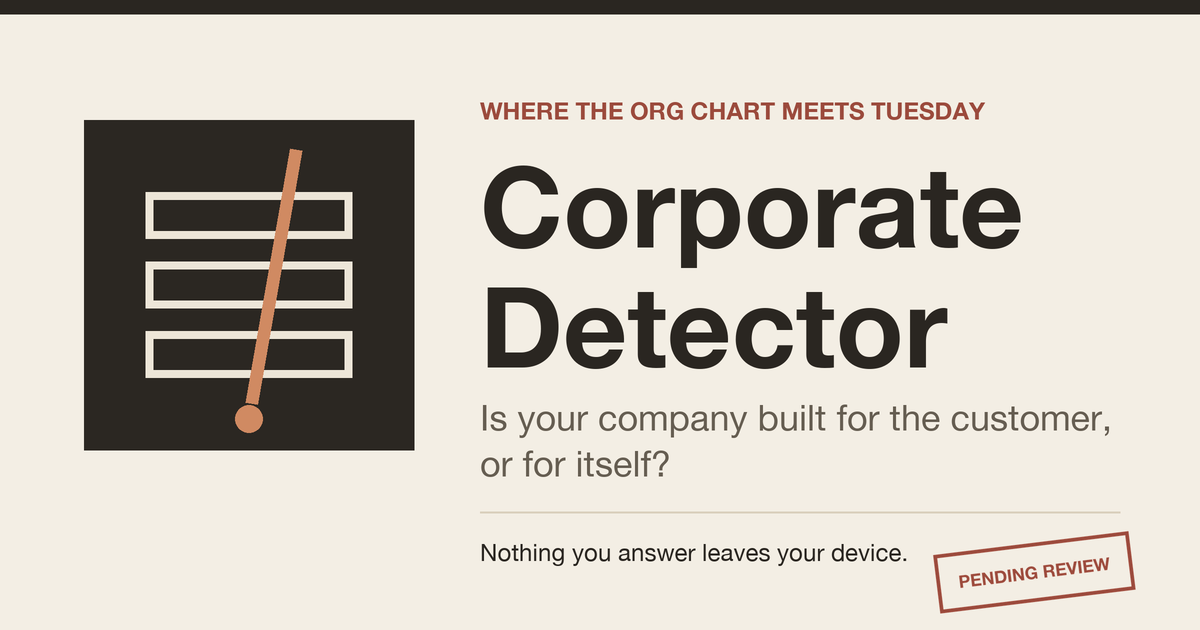
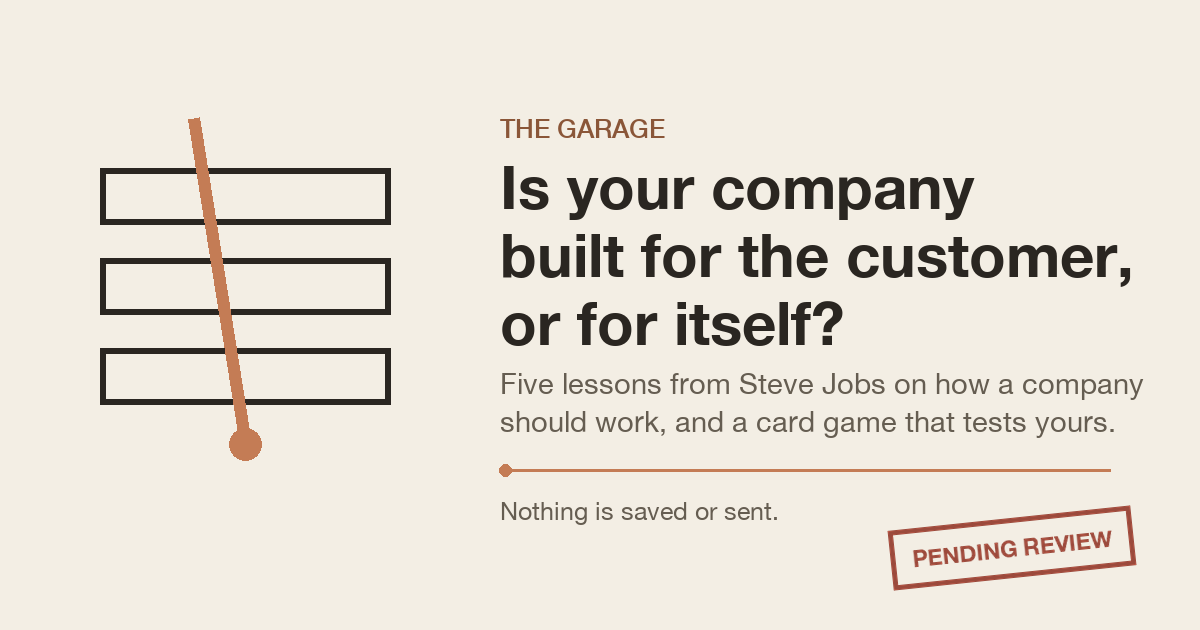
New share image, trimmed equation box, comparison rows as formulas
The share preview is redrawn in the site's grammar with a versioned URL
and new alt text; the touch icon matches. The equation box keeps only
its headline and link. Each comparison row reads Priorities = with
Bureaucracy and Entrepreneurial stacked beneath.

diff --git a/index.html b/index.html
@@ -11,19 +11,19 @@
 <meta property="og:title" content="The Garage: is your company built for the customer, or for itself?">
 <meta property="og:description" content="A workplace card game. Find out if your company builds things or protects itself.">
 <meta property="og:url" content="https://corporate-production-f647.up.railway.app/">
-<meta property="og:image" content="https://corporate-production-f647.up.railway.app/og-image.png">
+<meta property="og:image" content="https://corporate-production-f647.up.railway.app/og-image.png?v=2">
 <meta property="og:site_name" content="The Garage">
 <meta property="og:image:type" content="image/png">
 <meta property="og:image:width" content="1200">
 <meta property="og:image:height" content="630">
-<meta property="og:image:alt" content="Corporate Detector: a dark square with three stacked bars and a copper line cutting through them, beside the title.">
-<meta name="twitter:image:alt" content="Corporate Detector: a dark square with three stacked bars and a copper line cutting through them, beside the title.">
+<meta property="og:image:alt" content="The Garage: three stacked layers with a copper line through them, beside the question: is your company built for the customer, or for itself?">
+<meta name="twitter:image:alt" content="The Garage: three stacked layers with a copper line through them, beside the question: is your company built for the customer, or for itself?">
 <meta name="twitter:card" content="summary_large_image">
 <meta name="twitter:title" content="Corporate Detector: is your company built for the customer, or for itself?">
-<meta name="twitter:image" content="https://corporate-production-f647.up.railway.app/og-image.png">
+<meta name="twitter:image" content="https://corporate-production-f647.up.railway.app/og-image.png?v=2">
 <link rel="icon" href="favicon.svg" type="image/svg+xml">
 <link rel="apple-touch-icon" href="apple-touch-icon.png">
-<link rel="stylesheet" href="styles.css?v=7536a688">
+<link rel="stylesheet" href="styles.css?v=b341ced9">
 </head>
 <body>
 
@@ -65,7 +65,6 @@
   <div class="wrap">
     <p class="eyebrow">The whole site in one line</p>
     <h2>Five lessons, times Monday.</h2>
-    <p class="lead"><span class="if-hover">Hover over any part of it.</span><span class="if-touch">Tap any part of it, then Next.</span></p>
     <div class="eq" id="eq">
       <button type="button" class="term" data-k="focus" aria-expanded="false"><svg viewBox="0 0 44 44" aria-hidden="true" focusable="false"><g stroke="#2A2621" fill="none"><line x1="6" y1="8" x2="38" y2="8" stroke-width="1.5" opacity=".35"/><line x1="6" y1="15" x2="38" y2="15" stroke-width="4"/><line x1="6" y1="22" x2="38" y2="22" stroke-width="1.5" opacity=".35"/><line x1="6" y1="29" x2="38" y2="29" stroke-width="4"/><line x1="6" y1="36" x2="38" y2="36" stroke-width="1.5" opacity=".35"/></g></svg><span>Focus</span></button>
       <span class="op" aria-hidden="true">+</span>
@@ -84,7 +83,6 @@
     <div class="eq-pop" id="eq-pop" hidden aria-live="polite">
       <p class="eq-pop-k" id="eqp-k"></p>
       <p class="eq-pop-t" id="eqp-t"></p>
-      <p class="eq-pop-s" id="eqp-s"></p>
       <div class="eq-pop-nav"><a class="link small" id="eqp-link" href="lessons.html">The lesson</a><span class="eq-pop-count" id="eqp-count"></span><button type="button" class="btn" id="eqp-next">Next</button></div>
     </div>
   </div>
@@ -195,7 +193,7 @@
   </div>
 </footer>
 
-<script defer src="script.js?v=a61a47cc"></script>
+<script defer src="script.js?v=8278238e"></script>
 <script defer src="nav.js?v=c6c4f8ef"></script>
 </body>
 </html>

diff --git a/styles.css b/styles.css
@@ -1095,7 +1095,7 @@ main:focus { outline: none; }
 
 /* the whole site in one line */
 .formula { padding-top: 0; }
-.eq { display: flex; flex-wrap: wrap; align-items: flex-start; gap: 6px 2px; margin: 28px 0 0; max-width: 820px; }
+.eq { display: flex; flex-wrap: wrap; align-items: flex-start; gap: 6px 2px; margin: 36px 0 0; max-width: 820px; }
 .term { display: grid; justify-items: center; gap: 6px; width: 76px; padding: 8px 4px 6px; background: none; border: 1px solid transparent; border-radius: 3px; font: inherit; font-size: 12px; font-weight: 600; letter-spacing: .04em; text-transform: uppercase; color: var(--mute); cursor: pointer; text-align: center; line-height: 1.2; transition: border-color .15s, color .15s, background .15s; }
 .term svg { display: block; width: 44px; height: 44px; overflow: visible; }
 .term:hover, .term.on { border-color: var(--ink); color: var(--ink); background: #FBF8F0; }
@@ -1106,7 +1106,7 @@ main:focus { outline: none; }
 .eq-pop { margin: 18px 0 0; max-width: 640px; padding: 18px 20px 12px; background: #FBF8F0; border: 1px solid var(--ink); border-left: 5px solid var(--clay); border-radius: 3px; animation: cardIn .22s cubic-bezier(.2, .8, .2, 1) both; }
 .eq-pop[hidden] { display: none; }
 .eq-pop-k { margin: 0 0 6px; font-size: 12px; letter-spacing: .08em; text-transform: uppercase; font-weight: 700; color: var(--clay); }
-.eq-pop-t { margin: 0 0 8px; font-size: clamp(20px, 3vw, 26px); font-weight: 600; letter-spacing: -0.02em; line-height: 1.2; max-width: 24em; }
+.eq-pop-t { margin: 0 0 14px; font-size: clamp(20px, 3vw, 26px); font-weight: 600; letter-spacing: -0.02em; line-height: 1.2; max-width: 24em; }
 .eq-pop-s { margin: 0 0 10px; font-size: 17px; color: var(--mute); max-width: 36em; }
 .eq-pop-nav { display: flex; align-items: center; gap: 16px; flex-wrap: wrap; }
 .eq-pop-nav .link { min-height: 40px; }
@@ -1126,3 +1126,11 @@ main:focus { outline: none; }
 /* a rule between the question and the one-line answer */
 .formula .wrap::before { content: ""; display: block; height: 8px; margin-bottom: clamp(40px, 6vw, 64px);
   background: linear-gradient(var(--copper), var(--copper)) center / 100% 2px no-repeat, radial-gradient(circle, var(--copper) 3.5px, transparent 4px) left center / 8px 8px no-repeat; }
+
+/* the difference, stacked like a formula: Priorities = Bureaucracy: ... / Entrepreneurial: ... */
+.vs h3::after { content: "\00a0="; color: var(--clay); font-weight: 500; }
+.vs p { padding: 3px 0; border-left: 0 !important; font-size: 18px; line-height: 1.4; }
+.vs p span { display: inline; font-size: 13px; letter-spacing: .06em; margin: 0 8px 0 0; vertical-align: 1px; }
+.vs p span::after { content: ":"; }
+.vs-b { color: var(--mute); } .vs-e { color: var(--ink); }
+@media (min-width: 760px) { .vs { grid-template-columns: 220px 1fr; gap: 10px 24px; } .vs-b, .vs-e { grid-column: 2; } .vs h3 { grid-row: 1 / span 2; } }

diff --git a/methodology.html b/methodology.html
@@ -11,20 +11,20 @@
 <meta property="og:title" content="How scoring works | Corporate Detector">
 <meta property="og:description" content="A plain-language explanation of how the Corporate Detector scores answers, and what the results can and cannot tell you.">
 <meta property="og:url" content="https://corporate-production-f647.up.railway.app/methodology.html">
-<meta property="og:image" content="https://corporate-production-f647.up.railway.app/og-image.png">
+<meta property="og:image" content="https://corporate-production-f647.up.railway.app/og-image.png?v=2">
 <meta property="og:site_name" content="The Garage">
 <meta property="og:image:type" content="image/png">
 <meta property="og:image:width" content="1200">
 <meta property="og:image:height" content="630">
-<meta property="og:image:alt" content="Corporate Detector: a dark square with three stacked bars and a copper line cutting through them, beside the title.">
-<meta name="twitter:image:alt" content="Corporate Detector: a dark square with three stacked bars and a copper line cutting through them, beside the title.">
+<meta property="og:image:alt" content="The Garage: three stacked layers with a copper line through them, beside the question: is your company built for the customer, or for itself?">
+<meta name="twitter:image:alt" content="The Garage: three stacked layers with a copper line through them, beside the question: is your company built for the customer, or for itself?">
 <meta name="twitter:card" content="summary_large_image">
 <meta name="twitter:title" content="How scoring works | Corporate Detector">
 <meta name="twitter:description" content="A plain-language explanation of how the Corporate Detector scores answers, and what the results can and cannot tell you.">
-<meta name="twitter:image" content="https://corporate-production-f647.up.railway.app/og-image.png">
+<meta name="twitter:image" content="https://corporate-production-f647.up.railway.app/og-image.png?v=2">
 <link rel="icon" href="favicon.svg" type="image/svg+xml">
 <link rel="apple-touch-icon" href="apple-touch-icon.png">
-<link rel="stylesheet" href="styles.css?v=7536a688">
+<link rel="stylesheet" href="styles.css?v=b341ced9">
 </head>
 <body class="doc-page">
 <header class="nav"><div class="nav-inner"><a class="wordmark" href="index.html">The Garage</a>

diff --git a/lessons.html b/lessons.html
@@ -11,19 +11,19 @@
 <meta property="og:title" content="The Garage: five lessons on how a company should work">
 <meta property="og:description" content="Five questions and a field guide to what makes companies entrepreneurial and what makes them slow.">
 <meta property="og:url" content="https://corporate-production-f647.up.railway.app/lessons.html">
-<meta property="og:image" content="https://corporate-production-f647.up.railway.app/og-image.png">
+<meta property="og:image" content="https://corporate-production-f647.up.railway.app/og-image.png?v=2">
 <meta property="og:site_name" content="The Garage">
 <meta property="og:image:type" content="image/png">
 <meta property="og:image:width" content="1200">
 <meta property="og:image:height" content="630">
-<meta property="og:image:alt" content="Corporate Detector: a dark square with three stacked bars and a copper line cutting through them, beside the title.">
-<meta name="twitter:image:alt" content="Corporate Detector: a dark square with three stacked bars and a copper line cutting through them, beside the title.">
+<meta property="og:image:alt" content="The Garage: three stacked layers with a copper line through them, beside the question: is your company built for the customer, or for itself?">
+<meta name="twitter:image:alt" content="The Garage: three stacked layers with a copper line through them, beside the question: is your company built for the customer, or for itself?">
 <meta name="twitter:card" content="summary_large_image">
 <meta name="twitter:title" content="The Garage: five lessons on how a company should work">
-<meta name="twitter:image" content="https://corporate-production-f647.up.railway.app/og-image.png">
+<meta name="twitter:image" content="https://corporate-production-f647.up.railway.app/og-image.png?v=2">
 <link rel="icon" href="favicon.svg" type="image/svg+xml">
 <link rel="apple-touch-icon" href="apple-touch-icon.png">
-<link rel="stylesheet" href="styles.css?v=7536a688">
+<link rel="stylesheet" href="styles.css?v=b341ced9">
 </head>
 <body>
 
@@ -402,7 +402,7 @@
 </footer>
 
 <script defer src="cards.js?v=981ebdc8"></script>
-<script defer src="script.js?v=a61a47cc"></script>
+<script defer src="script.js?v=8278238e"></script>
 <script defer src="nav.js?v=c6c4f8ef"></script>
 </body>
 </html>

diff --git a/privacy.html b/privacy.html
@@ -11,20 +11,20 @@
 <meta property="og:title" content="Privacy | Corporate Detector">
 <meta property="og:description" content="How the Corporate Detector handles your answers: nothing is collected, saved or sent.">
 <meta property="og:url" content="https://corporate-production-f647.up.railway.app/privacy.html">
-<meta property="og:image" content="https://corporate-production-f647.up.railway.app/og-image.png">
+<meta property="og:image" content="https://corporate-production-f647.up.railway.app/og-image.png?v=2">
 <meta property="og:site_name" content="The Garage">
 <meta property="og:image:type" content="image/png">
 <meta property="og:image:width" content="1200">
 <meta property="og:image:height" content="630">
-<meta property="og:image:alt" content="Corporate Detector: a dark square with three stacked bars and a copper line cutting through them, beside the title.">
-<meta name="twitter:image:alt" content="Corporate Detector: a dark square with three stacked bars and a copper line cutting through them, beside the title.">
+<meta property="og:image:alt" content="The Garage: three stacked layers with a copper line through them, beside the question: is your company built for the customer, or for itself?">
+<meta name="twitter:image:alt" content="The Garage: three stacked layers with a copper line through them, beside the question: is your company built for the customer, or for itself?">
 <meta name="twitter:card" content="summary_large_image">
 <meta name="twitter:title" content="Privacy | Corporate Detector">
 <meta name="twitter:description" content="How the Corporate Detector handles your answers: nothing is collected, saved or sent.">
-<meta name="twitter:image" content="https://corporate-production-f647.up.railway.app/og-image.png">
+<meta name="twitter:image" content="https://corporate-production-f647.up.railway.app/og-image.png?v=2">
 <link rel="icon" href="favicon.svg" type="image/svg+xml">
 <link rel="apple-touch-icon" href="apple-touch-icon.png">
-<link rel="stylesheet" href="styles.css?v=7536a688">
+<link rel="stylesheet" href="styles.css?v=b341ced9">
 </head>
 <body class="doc-page">
 <header class="nav"><div class="nav-inner"><a class="wordmark" href="index.html">The Garage</a>

diff --git a/play.html b/play.html
@@ -11,20 +11,20 @@
 <meta property="og:title" content="Corporate Detector: is your company built for the customer, or for itself?">
 <meta property="og:description" content="Everyday workplace scenarios and a plain read on how your company works. Nothing is saved or sent.">
 <meta property="og:url" content="https://corporate-production-f647.up.railway.app/play.html">
-<meta property="og:image" content="https://corporate-production-f647.up.railway.app/og-image.png">
+<meta property="og:image" content="https://corporate-production-f647.up.railway.app/og-image.png?v=2">
 <meta property="og:site_name" content="The Garage">
 <meta property="og:image:type" content="image/png">
 <meta property="og:image:width" content="1200">
 <meta property="og:image:height" content="630">
-<meta property="og:image:alt" content="Corporate Detector: a dark square with three stacked bars and a copper line cutting through them, beside the title.">
-<meta name="twitter:image:alt" content="Corporate Detector: a dark square with three stacked bars and a copper line cutting through them, beside the title.">
+<meta property="og:image:alt" content="The Garage: three stacked layers with a copper line through them, beside the question: is your company built for the customer, or for itself?">
+<meta name="twitter:image:alt" content="The Garage: three stacked layers with a copper line through them, beside the question: is your company built for the customer, or for itself?">
 <meta name="twitter:card" content="summary_large_image">
 <meta name="twitter:title" content="Corporate Detector">
 <meta name="twitter:description" content="Is your company built for the customer, or for itself?">
-<meta name="twitter:image" content="https://corporate-production-f647.up.railway.app/og-image.png">
+<meta name="twitter:image" content="https://corporate-production-f647.up.railway.app/og-image.png?v=2">
 <link rel="icon" href="favicon.svg" type="image/svg+xml">
 <link rel="apple-touch-icon" href="apple-touch-icon.png">
-<link rel="stylesheet" href="styles.css?v=7536a688">
+<link rel="stylesheet" href="styles.css?v=b341ced9">
 </head>
 <body class="play-page bsd">
 <a class="skip-link" href="#main">Skip to content</a>

diff --git a/startup-speed.html b/startup-speed.html
@@ -11,19 +11,19 @@
 <meta property="og:title" content="Startup Speed: can a big company still think like a small one?">
 <meta property="og:description" content="Eight tests, each with one move you can make this week.">
 <meta property="og:url" content="https://corporate-production-f647.up.railway.app/startup-speed.html">
-<meta property="og:image" content="https://corporate-production-f647.up.railway.app/og-image.png">
+<meta property="og:image" content="https://corporate-production-f647.up.railway.app/og-image.png?v=2">
 <meta property="og:site_name" content="The Garage">
 <meta property="og:image:type" content="image/png">
 <meta property="og:image:width" content="1200">
 <meta property="og:image:height" content="630">
-<meta property="og:image:alt" content="Corporate Detector: a dark square with three stacked bars and a copper line cutting through them, beside the title.">
-<meta name="twitter:image:alt" content="Corporate Detector: a dark square with three stacked bars and a copper line cutting through them, beside the title.">
+<meta property="og:image:alt" content="The Garage: three stacked layers with a copper line through them, beside the question: is your company built for the customer, or for itself?">
+<meta name="twitter:image:alt" content="The Garage: three stacked layers with a copper line through them, beside the question: is your company built for the customer, or for itself?">
 <meta name="twitter:card" content="summary_large_image">
 <meta name="twitter:title" content="Startup Speed">
-<meta name="twitter:image" content="https://corporate-production-f647.up.railway.app/og-image.png">
+<meta name="twitter:image" content="https://corporate-production-f647.up.railway.app/og-image.png?v=2">
 <link rel="icon" href="favicon.svg" type="image/svg+xml">
 <link rel="apple-touch-icon" href="apple-touch-icon.png">
-<link rel="stylesheet" href="styles.css?v=7536a688">
+<link rel="stylesheet" href="styles.css?v=b341ced9">
 </head>
 <body>
 
@@ -159,7 +159,7 @@
   </div>
 </footer>
 
-<script defer src="script.js?v=a61a47cc"></script>
+<script defer src="script.js?v=8278238e"></script>
 <script defer src="nav.js?v=c6c4f8ef"></script>
 </body>
 </html>

diff --git a/script.js b/script.js
@@ -107,7 +107,6 @@
       terms.forEach(function (b) { var on = b.getAttribute('data-k') === k; b.classList.toggle('on', on); b.setAttribute('aria-expanded', on ? 'true' : 'false'); });
       document.getElementById('eqp-k').textContent = d.k;
       document.getElementById('eqp-t').textContent = d.t;
-      document.getElementById('eqp-s').textContent = d.s;
       var a = document.getElementById('eqp-link'); a.href = d.href; a.textContent = d.label;
       document.getElementById('eqp-count').textContent = (cur + 1) + ' of ' + order.length;
       document.getElementById('eqp-next').textContent = cur === order.length - 1 ? 'Start over' : 'Next';

diff --git a/404.html b/404.html
@@ -7,7 +7,7 @@
 <title>Page not found | The Garage</title>
 <meta name="robots" content="noindex">
 <link rel="icon" href="favicon.svg" type="image/svg+xml">
-<link rel="stylesheet" href="styles.css?v=7536a688">
+<link rel="stylesheet" href="styles.css?v=b341ced9">
 </head>
 <body>
 <header class="nav"><div class="nav-inner"><a class="wordmark" href="index.html">The Garage</a></div></header>
